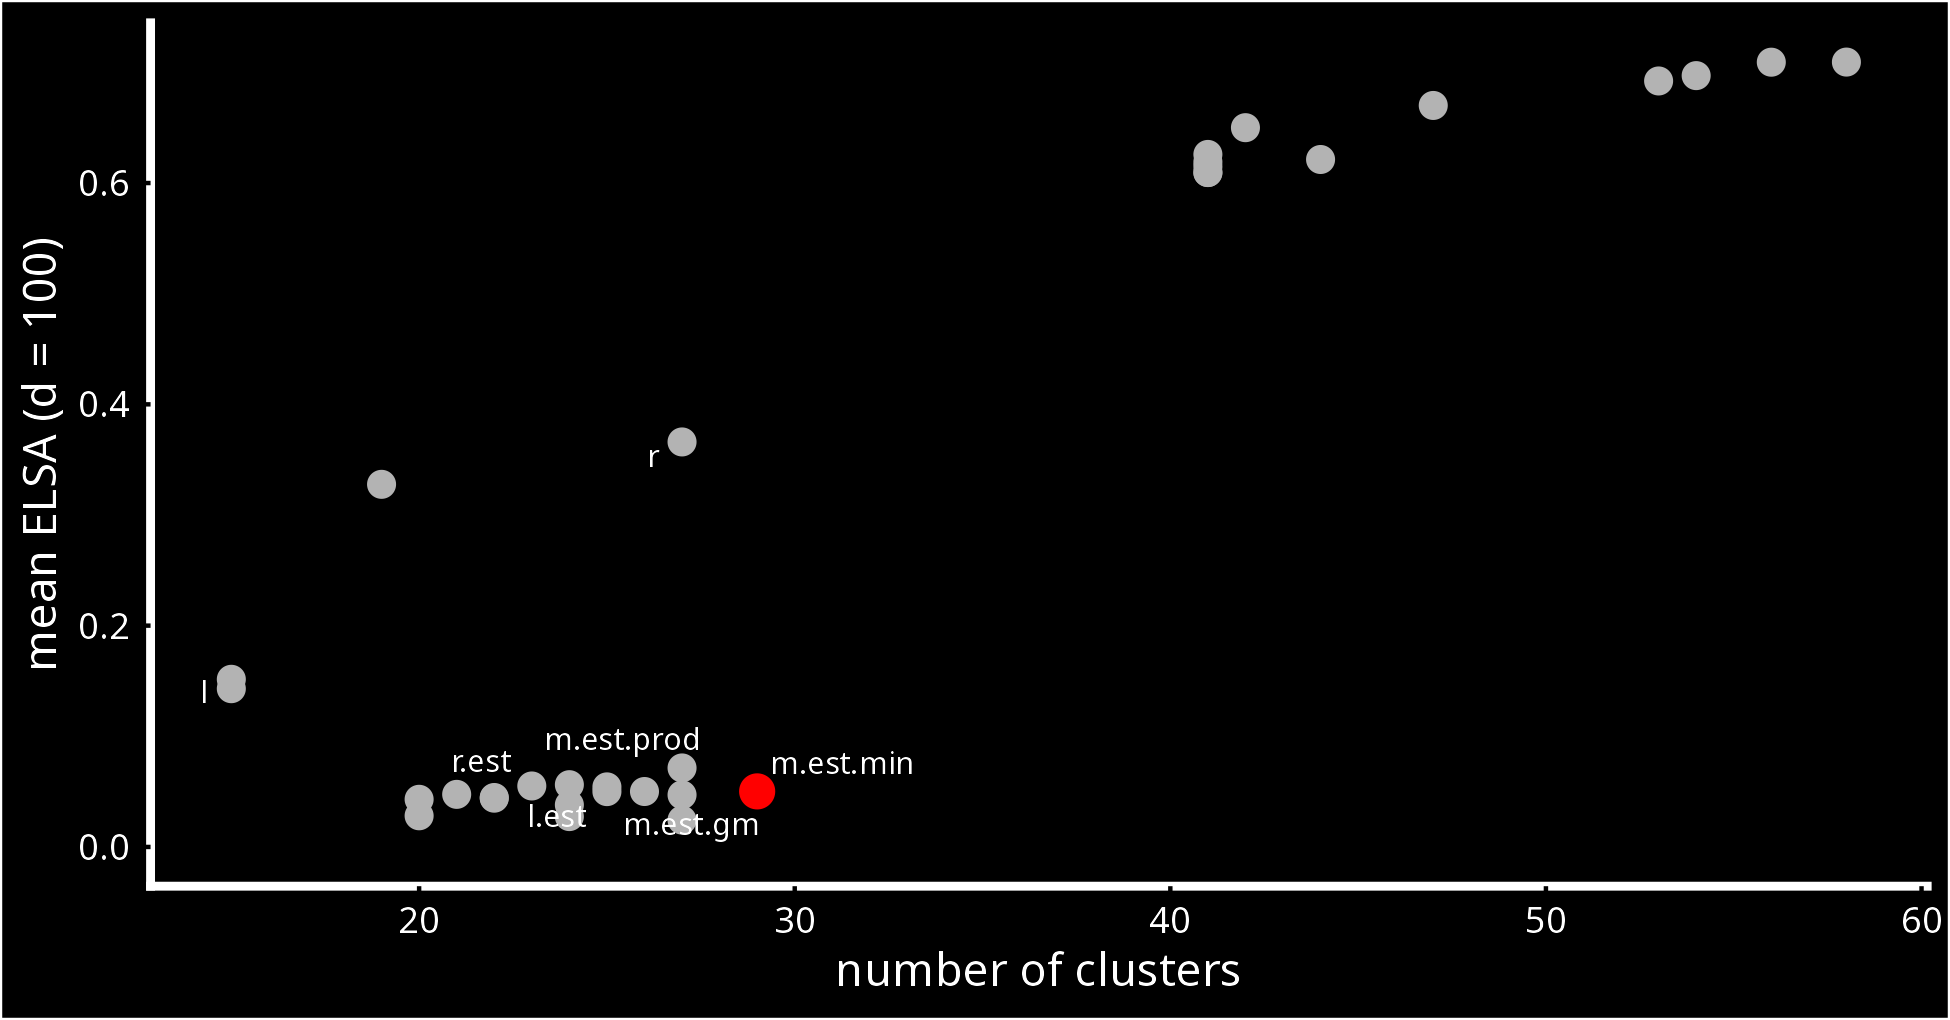
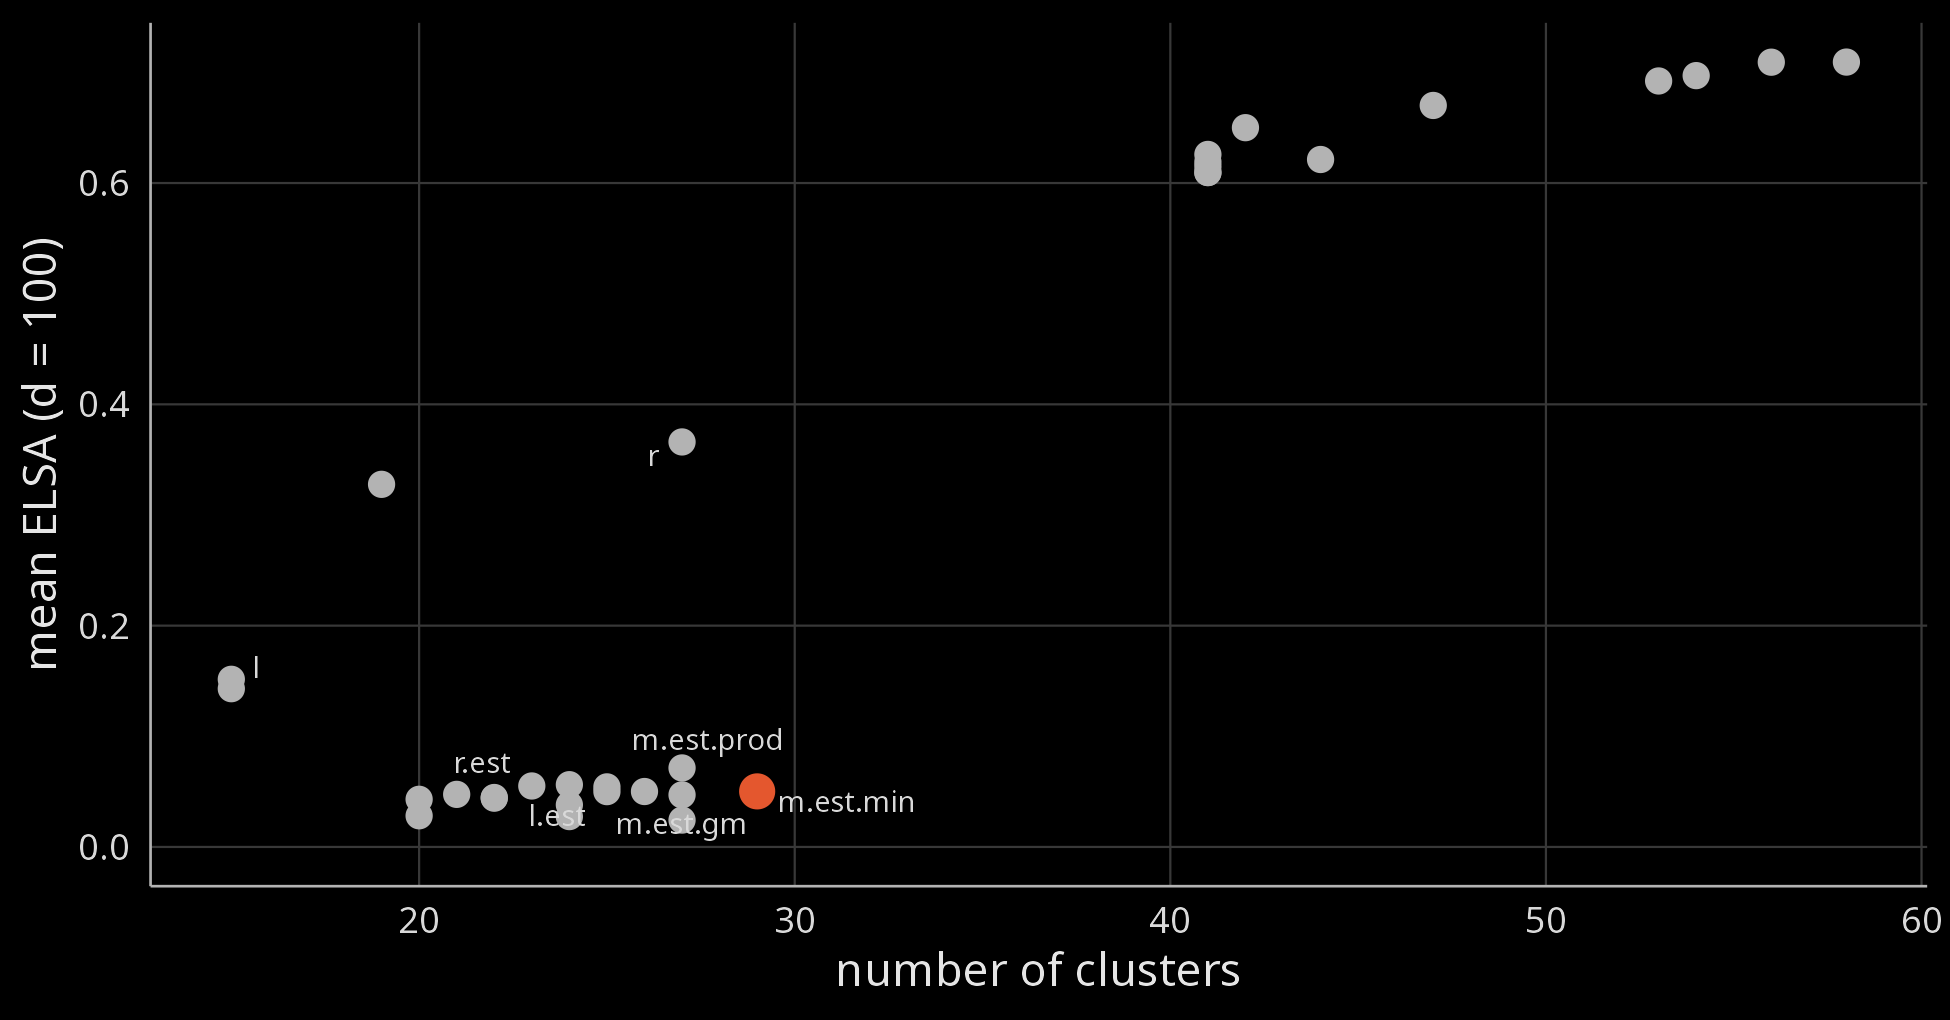
Scripted composite for Figure 5, and a height limit worth knowing about
compose-fig-5.py assembles Figure 5 from the regenerated panels: three
operator columns, four mechanism triplets each showing ligand and receptor
beside their interaction field, then domains, then the matching entrogram,
then two summary panels. Published structure preserved, since the authors
ruled out reorganising. Nothing is re-clustered.

Also rebuilds the two summary panels on a dark ground. regenerate-fig5.R
produced them with theme_classic() + DarkTheme(), which leaves them light,
because theme_classic sets panel.background after DarkTheme has run. They
were the only light panels in an otherwise dark figure. Split into
fig5-summary-panels.R since they need only the small Sup6 objects rather
than the five large Seurat assays.

The constraint worth surfacing: at full 7.5 in width this figure is 10.87 in
tall, against a PLOS ONE limit of 8.75. Twenty panels in a portrait stack do
not fit the box. The script now scales the finished composite to the limit
rather than exceeding it silently, which yields 6.04 x 8.75 in, so 1.46 in
of usable width goes unused and the panels end up smaller than the format
allows. This is the same constraint that forced the published version to
0.705\linewidth, and it means Figure 5 cannot satisfy R1.3 by sizing alone.

diff --git a/Submission_PLOSOne/submission-2/figures-regenerated/compose-fig-5.py b/Submission_PLOSOne/submission-2/figures-regenerated/compose-fig-5.py
@@ -1,0 +1,134 @@
+#!/usr/bin/env python3
+"""Assemble Figure 5 (convolution operator comparison) from the regenerated panels.
+
+Replaces hand assembly in Illustrator. Figure 5 is a portrait stack rather than a grid, so it
+gets its own script: three operator columns, a top block of four example mechanisms each
+showing ligand and receptor above their interaction field, then the resulting domains and the
+matching entrogram, then two summary panels spanning the width.
+
+The panels themselves come from regenerate-fig5.R, which applies the coord_fixed() correction
+that Figure 5 needed (R2.6 as extended to this figure). Nothing is re-clustered anywhere.
+
+Usage: python3 compose-fig-5.py [width_in] [dpi]
+"""
+import sys
+from PIL import Image, ImageDraw, ImageFont
+
+W_IN = float(sys.argv[1]) if len(sys.argv) > 1 else 7.5
+DPI  = int(sys.argv[2]) if len(sys.argv) > 2 else 400
+W    = int(W_IN * DPI)
+
+P = "panels-fig5"
+OPS   = [("prod", "Product"), ("gm", "Geometric mean"), ("min", "Common minimum")]
+MECHS = ["WNT4-FZD6", "RSPO1-LGR6", "DHH-PTCH1", "VEGFA-KDR"]
+
+def font(px, bold=False):
+    for path in ("/usr/share/fonts/dejavu-sans-fonts/DejaVuSans%s.ttf",
+                 "/usr/share/fonts/truetype/dejavu/DejaVuSans%s.ttf"):
+        try:
+            return ImageFont.truetype(path % ("-Bold" if bold else ""), px)
+        except OSError:
+            continue
+    return ImageFont.load_default()
+
+def load(name):
+    return Image.open(f"{P}/{name}.png").convert("RGB")
+
+def fit(im, w):
+    return im.resize((w, round(im.height * w / im.width)), Image.LANCZOS)
+
+# ---- geometry ------------------------------------------------------------------------
+PAD      = round(0.030 * DPI)
+GUT      = round(0.055 * DPI)          # gap between operator columns
+LEFT     = round(0.30 * DPI)           # row-label gutter
+COLW     = (W - 2 * PAD - LEFT - 2 * GUT) // 3
+LR_W     = round(COLW * 0.30)          # small ligand / receptor panels
+INT_W    = COLW - LR_W - round(0.02 * DPI)
+F_HEAD   = font(round(0.105 * DPI), True)
+F_SUB    = font(round(0.072 * DPI))
+F_ROW    = font(round(0.078 * DPI), True)
+F_MECH   = font(round(0.066 * DPI), True)
+F_TITLE  = font(round(0.135 * DPI), True)
+
+lr_h  = fit(load("Fig5_min_WNT4-FZD6_ligand"), LR_W).height
+int_h = fit(load("Fig5_min_WNT4-FZD6_interaction"), INT_W).height
+mech_h = max(2 * lr_h + round(0.012 * DPI), int_h) + round(0.075 * DPI)
+map_h  = fit(load("Fig5_min_domains"), COLW).height
+summ_h = fit(load("Fig5_summary_elsa-vs-paramD"), (W - 2 * PAD - GUT) // 2).height
+
+TITLE_H = round(0.30 * DPI)
+HEAD_H  = round(0.20 * DPI)
+H = (TITLE_H + HEAD_H + 4 * mech_h + round(0.10 * DPI) + map_h + round(0.10 * DPI)
+     + map_h + round(0.14 * DPI) + summ_h + 2 * PAD)
+
+canvas = Image.new("RGB", (W, H), "white")
+dr = ImageDraw.Draw(canvas)
+
+def ctext(x, y, s, f, fill="black"):
+    b = dr.textbbox((0, 0), s, font=f)
+    dr.text((x - (b[2] - b[0]) / 2, y), s, font=f, fill=fill)
+
+def rtext(x, y, s, f, fill="black"):
+    b = dr.textbbox((0, 0), s, font=f)
+    dr.text((x - (b[2] - b[0]), y), s, font=f, fill=fill)
+
+def colx(i):
+    return PAD + LEFT + i * (COLW + GUT)
+
+# ---- title and operator headers ------------------------------------------------------
+y = PAD
+ctext(W / 2, y, "Comparison of ligand-receptor convolution operators", F_TITLE)
+y += TITLE_H
+for i, (_, label) in enumerate(OPS):
+    ctext(colx(i) + COLW / 2, y, label, F_HEAD)
+y += HEAD_H
+
+# ---- top block: four mechanisms, ligand and receptor beside their interaction field ---
+for m in MECHS:
+    for i, (op, _) in enumerate(OPS):
+        x = colx(i)
+        canvas.paste(fit(load(f"Fig5_{op}_{m}_ligand"), LR_W), (x, y))
+        canvas.paste(fit(load(f"Fig5_{op}_{m}_receptor"), LR_W), (x, y + lr_h + round(0.012 * DPI)))
+        canvas.paste(fit(load(f"Fig5_{op}_{m}_interaction"), INT_W),
+                     (x + LR_W + round(0.02 * DPI), y))
+    dr.text((PAD, y + round(0.02 * DPI)), m, font=F_MECH, fill="black")
+    y += mech_h
+
+# ---- resulting domains, then the matching entrogram ----------------------------------
+y += round(0.10 * DPI)
+for i, (op, _) in enumerate(OPS):
+    canvas.paste(fit(load(f"Fig5_{op}_domains"), COLW), (colx(i), y))
+rtext(PAD + LEFT - round(0.04 * DPI), y + map_h / 2 - round(0.04 * DPI), "Domains", F_ROW)
+y += map_h + round(0.10 * DPI)
+for i, (op, _) in enumerate(OPS):
+    canvas.paste(fit(load(f"Fig5_{op}_entrogram"), COLW), (colx(i), y))
+rtext(PAD + LEFT - round(0.04 * DPI), y + map_h / 2 - round(0.04 * DPI), "Entrogram", F_ROW)
+y += map_h + round(0.14 * DPI)
+
+# ---- two summary panels spanning the width -------------------------------------------
+sw = (W - 2 * PAD - GUT) // 2
+canvas.paste(fit(load("Fig5_summary_elsa-vs-paramD"), sw), (PAD, y))
+canvas.paste(fit(load("Fig5_summary_elsa-vs-numclust"), sw), (PAD + sw + GUT, y))
+
+# ---- panel letters -------------------------------------------------------------------
+letters = [("A", PAD + LEFT, PAD + TITLE_H + HEAD_H),
+           ("B", PAD + LEFT, PAD + TITLE_H + HEAD_H + 4 * mech_h + round(0.10 * DPI)),
+           ("C", PAD + LEFT, PAD + TITLE_H + HEAD_H + 4 * mech_h + round(0.20 * DPI) + map_h),
+           ("D", PAD, y), ("E", PAD + sw + GUT, y)]
+for s, lx, ly in letters:
+    dr.text((lx - round(0.10 * DPI), ly), s, font=F_HEAD, fill="black")
+
+# PLOS ONE caps a figure at 7.5 x 8.75 in. Figure 5 carries twenty panels in a portrait
+# stack, so at full width it overruns the height limit. That is the same constraint that
+# forced the published version to be scaled to 0.705\linewidth in the manuscript. Scale the
+# finished composite to fit the box rather than silently exceeding it.
+MAX_H_IN = 8.75
+h_in = H / DPI
+if h_in > MAX_H_IN:
+    k = MAX_H_IN / h_in
+    canvas = canvas.resize((round(W * k), round(H * k)), Image.LANCZOS)
+    print(f"scaled by {k:.3f} to meet the {MAX_H_IN} in height limit")
+
+canvas.save("Fig5-composite.png", dpi=(DPI, DPI))
+print(f"Fig5-composite.png  {canvas.width / DPI:.2f} x {canvas.height / DPI:.2f} in @ {DPI} dpi"
+      f"  ({canvas.width} x {canvas.height} px)")
